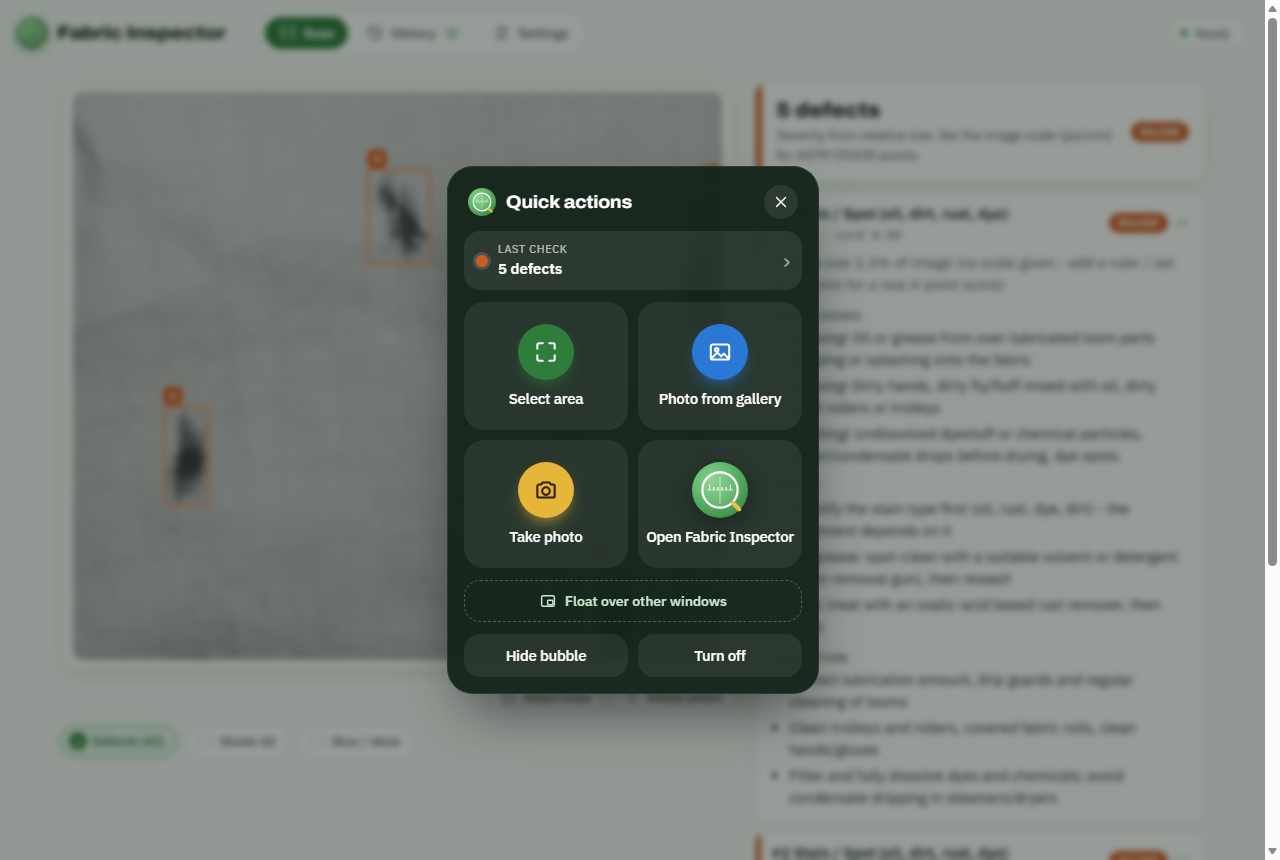
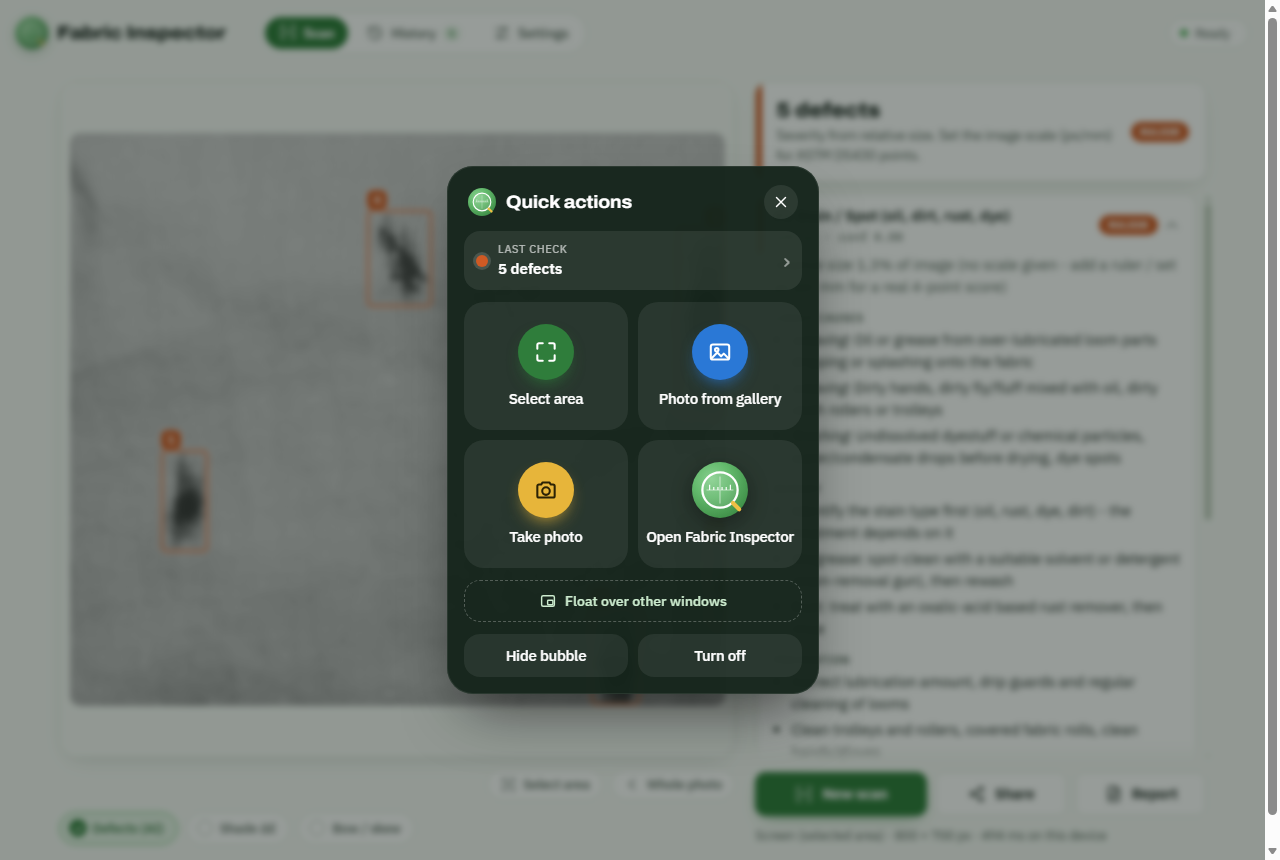
Symmetric start screen; bubble docks half-hidden at the screen edge
On wide screens the main box and the right column share one height and the three
cards split it evenly as centred tiles. The page bubble rests half outside the edge,
slides out on hover, and no longer sits under the page scrollbar.

diff --git a/web_static/css/app.css b/web_static/css/app.css
@@ -392,3 +392,28 @@ body.pipbody[data-view="bubble"] { display: grid; place-items: center; min-heigh
                      -webkit-mask-image: linear-gradient(#000 calc(100% - 22px), transparent); mask-image: linear-gradient(#000 calc(100% - 22px), transparent); }
   #results .actions { margin-top: 0; }
 }
+
+/* wide screens, start screen: the main box and the right column share one height; the three cards split it evenly */
+@media (min-width: 900px) {
+  #scr-scan[data-state=empty] .stagecol { height: var(--colh); grid-template-rows: minmax(0, 1fr) auto; }
+  #scr-scan[data-state=empty] .stage { min-height: 0; }
+  #scr-scan[data-state=empty] .empty { height: 100%; }
+  #scr-scan[data-state=empty] #sidecards { height: var(--colh); grid-auto-rows: 1fr; position: sticky; top: 76px; }
+  #sidecards > .card { align-content: center; }
+  #sidecards .tips { display: grid; gap: 8px; }
+  #sidecards .tips ul { margin: 0; padding-left: 18px; display: grid; gap: 6px; }
+}
+/* the page bubble rests half outside the screen edge and slides out on hover / focus */
+.fbub.dock-l { transform: translateX(-40%); } .fbub.dock-r { transform: translateX(40%); }
+.fbub.dock-l:hover, .fbub.dock-r:hover, .fbub:focus-visible, .fbub.drag { transform: none; }
+@media (min-width: 900px) {
+  #sidecards > a.card.link { grid-template-columns: 1fr; justify-items: center; text-align: center; gap: 10px; padding: 20px 22px; }
+  #sidecards > a.card.link .pickglass { width: 54px; height: 54px; }
+  #sidecards > a.card.link b { font: 700 1.08rem var(--f-display); font-stretch: 106%; }
+  #sidecards > a.card.link small { max-width: 34ch; margin: 4px auto 0; }
+  #sidecards > a.card.link::after { content: attr(data-cta) "  ›"; font: 600 13.5px var(--f-body); color: var(--fern); padding: 7px 14px; border-radius: 999px; background: var(--fern-soft); }
+  #sidecards > a.card.link:hover::after { transform: none; background: var(--fern); color: #fff; }
+  #sidecards .tips { justify-items: center; text-align: center; }
+  #sidecards .tips b { font: 700 1.08rem var(--f-display); font-stretch: 106%; }
+  #sidecards .tips ul { text-align: left; max-width: 40ch; }
+}

diff --git a/web_static/js/bubble.js b/web_static/js/bubble.js
@@ -251,19 +251,22 @@ export class Bubble {
     const b = document.createElement("button");
     b.className = "fbub"; b.setAttribute("aria-label", "Fabric Inspector quick actions");
     b.innerHTML = glass() + "<i hidden></i>";
+    const vw = () => document.documentElement.clientWidth || innerWidth;     // without the scrollbar
     let pos = null;
     try { pos = JSON.parse(localStorage.getItem("fi-bubble-pos") || "null"); } catch { /* ignore */ }
     const place = (x, y) => { b.style.left = x + "px"; b.style.top = y + "px"; };
     const snap = () => {
       const s = b.offsetWidth, r = b.getBoundingClientRect();
-      const x = r.left + s / 2 < innerWidth / 2 ? 8 : innerWidth - s - 8;
+      const left = r.left + s / 2 < vw() / 2, x = left ? 0 : vw() - s;
+      b.classList.toggle("dock-l", left); b.classList.toggle("dock-r", !left);
       const y = Math.min(Math.max(r.top, 70), innerHeight - s - 90);
       place(x, y);
-      try { localStorage.setItem("fi-bubble-pos", JSON.stringify({ right: x > 8, y: y / innerHeight })); } catch { /* ignore */ }
+      try { localStorage.setItem("fi-bubble-pos", JSON.stringify({ right: !left, y: y / innerHeight })); } catch { /* ignore */ }
     };
     document.body.appendChild(b);
     const s = b.offsetWidth || 58;
-    place(pos && !pos.right ? 8 : innerWidth - s - 8, pos ? pos.y * innerHeight : innerHeight * 0.55);
+    place(pos && !pos.right ? 0 : vw() - s, pos ? pos.y * innerHeight : innerHeight * 0.55);
+    b.classList.add(pos && !pos.right ? "dock-l" : "dock-r");
     let start = null, moved = false;
     b.addEventListener("pointerdown", (e) => { start = [e.clientX, e.clientY, b.offsetLeft, b.offsetTop]; moved = false; b.setPointerCapture(e.pointerId); });
     b.addEventListener("pointermove", (e) => {

diff --git a/web_static/index.html b/web_static/index.html
@@ -141,11 +141,11 @@
         <div><b>Floating bubble</b><small id="bubbleState">Check fabric shown in any other app: camera, gallery, WhatsApp, a PDF.</small></div>
         <button id="bubbleToggle" class="btn sm primary">Start</button>
       </div>
-      <a class="webonly card link" href="download/FabricInspector.apk" id="apkLink">
+      <a class="webonly card link" href="download/FabricInspector.apk" id="apkLink" data-cta="Download APK">
         <svg class="pickglass"><use href="#i-glass"/></svg>
         <div><b>Android app with floating bubble</b><small>Checks fabric shown in any other app. Download the APK.</small></div>
       </a>
-      <a class="webonly card link" href="iphone.html">
+      <a class="webonly card link" href="iphone.html" data-cta="Set up">
         <svg class="pickglass"><use href="#i-glass"/></svg>
         <div><b>iPhone: check anything on screen</b><small>Set up AssistiveTouch in two minutes.</small></div>
       </a>

diff --git a/web_static/sw.js b/web_static/sw.js
@@ -1,5 +1,5 @@
-// Offline cache (generated by build_static.py) - version b7ad95cfeb
-const CACHE = "fdi-b7ad95cfeb";
+// Offline cache (generated by build_static.py) - version 6456008cfe
+const CACHE = "fdi-6456008cfe";
 const FILES = ["css/app.css", "examples/hole_example.jpg", "examples/skew_example.jpg", "examples/stain_example.jpg", "icons/icon-192.png", "icons/icon-512.png", "index.html", "iphone.html", "js/app.js", "js/bubble.js", "js/camera.js", "js/detector.js", "js/imgutil.js", "js/kb.js", "js/shade.js", "js/skew.js", "js/store.js", "js/verdict.js", "kb.json", "manifest.webmanifest", "model/best.onnx", "ort/ort-wasm-simd-threaded.mjs", "ort/ort-wasm-simd-threaded.wasm", "ort/ort.wasm.min.mjs"];
 const clean = (r) => (r && r.redirected ? r.blob().then((b) => new Response(b, { status: 200, headers: r.headers })) : r);
 // one file at a time with retries: on a weak mobile connection a single failed download must not undo the rest

diff --git a/tests/test_bubble.py b/tests/test_bubble.py
@@ -70,6 +70,9 @@ try:
             if js("!!(window.fabricApp && window.fabricApp.backend())"): break
         except Exception: pass
     js("fabricApp.ready")
+    time.sleep(0.8); shot("start_desktop.png")
+    st = js("(() => { const a = document.querySelector('.stagecol').getBoundingClientRect(), b = document.getElementById('sidecards').getBoundingClientRect(); return [a.top, a.bottom, b.top, b.bottom]; })()")
+    check(abs(st[0] - st[2]) < 2 and abs(st[1] - st[3]) < 2, f"start screen: both columns line up top and bottom {st}")
     # 1. on by default: a small bubble on the page edge; the switch is in Settings
     check(js("!!document.querySelector('.fbub') && !document.querySelector('.fbub').hidden"), "bubble on the page by default")
     check(js("document.getElementById('bubbleOn').checked"), "Settings switch is on")
@@ -77,8 +80,8 @@ try:
     print("   settings text:", js("document.getElementById('webBubbleState').textContent"))
     # 2. drag the bubble: it snaps to the nearest edge
     bx, by = center(".fbub"); drag((bx, by), (300, 400)); time.sleep(0.5)
-    left = js("document.querySelector('.fbub').getBoundingClientRect().left")
-    check(abs(left - 8) < 2, f"bubble snaps to the left edge (left={left:.0f})")
+    left = js("document.querySelector('.fbub').offsetLeft")
+    check(abs(left) < 2 and js("document.querySelector('.fbub').classList.contains('dock-l')"), f"bubble docks at the left edge (left={left:.0f})")
 
     # 3. tap: the quick-action menu
     bx, by = center(".fbub"); click(bx, by); time.sleep(0.6)
@@ -143,7 +146,7 @@ try:
     cdp("Emulation.setDeviceMetricsOverride", width=390, height=844, deviceScaleFactor=2, mobile=True)
     js("fabricApp.bubble().start(); true"); time.sleep(0.6)
     r = js("(() => { const r = document.querySelector('.fbub').getBoundingClientRect(); return [r.left, r.right, r.bottom]; })()")
-    check(r[1] <= 390 and r[2] <= 844 - 62, f"bubble inside the phone screen, above the tab bar {r}")
+    check(r[0] < 390 - 30 and r[2] <= 844 - 62, f"bubble docked on the phone screen edge, above the tab bar {r}")
     bx, by = center(".fbub"); click(bx, by); time.sleep(0.6)
     w = js("document.querySelector('.qa').getBoundingClientRect().width")
     check(w <= 390 - 32 + 1, f"menu fits the phone width ({w:.0f}px)")
